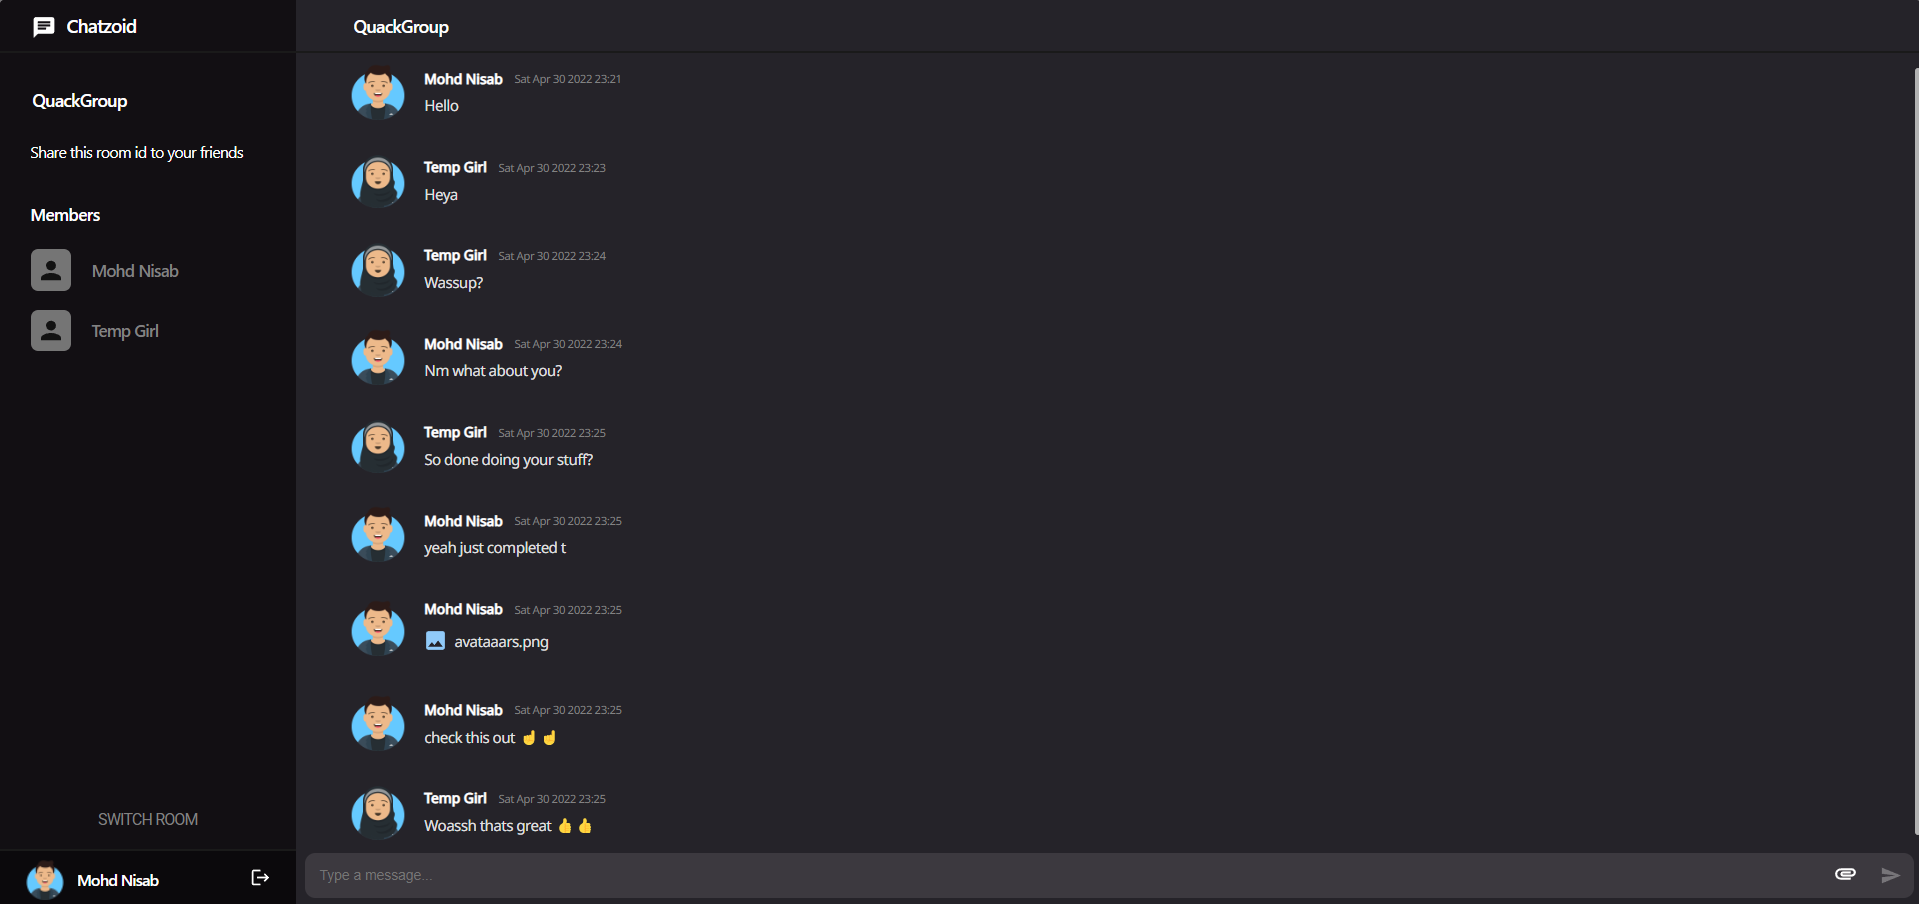
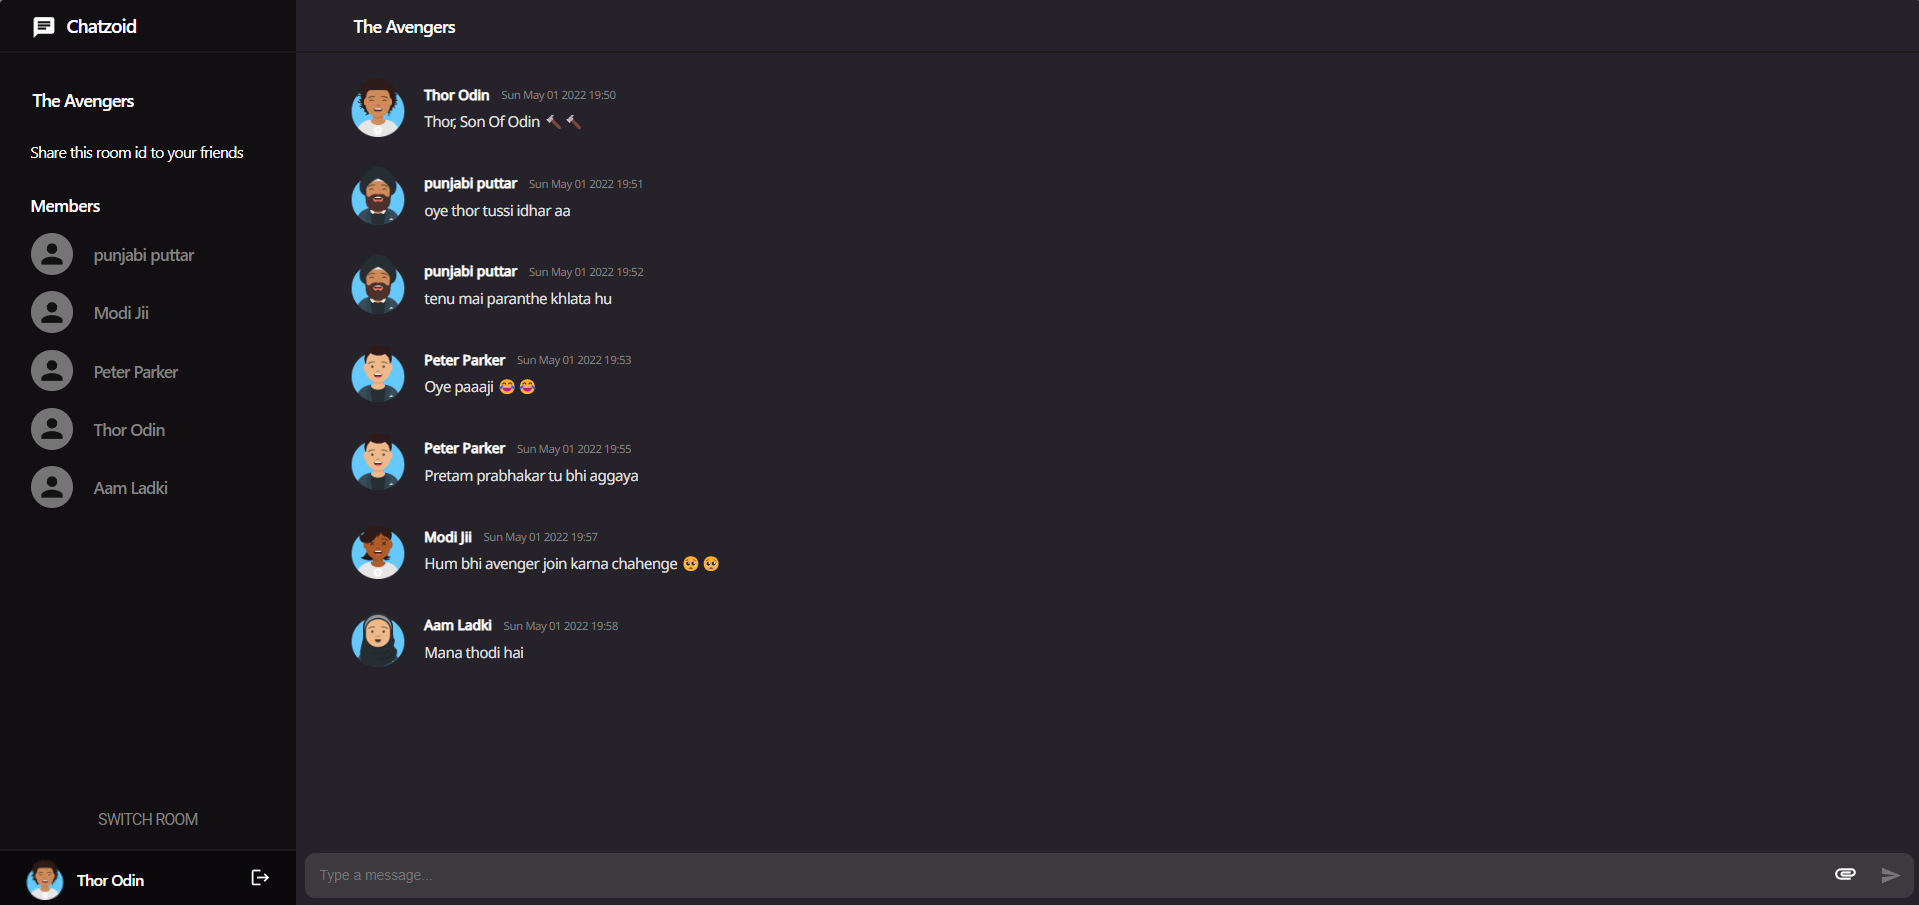
commit small tweaks

diff --git a/src/Login.js b/src/Login.js
@@ -123,10 +123,11 @@ export const Login = (props) => {
 
         <div className='login' style={loginstyle}>
             <Toaster />
-            <ChatIcon color="primary" sx={{ fontSize: 120 }} ></ChatIcon>
+            <ChatIcon color="disabled" sx={{ fontSize: 140 }} ></ChatIcon>
             <h2 style={{ color: 'white', fontWeight: '400' }}>Chatzoid - Sign In</h2>
             {/* <p style={{ fontSize: '16px', width: '295px', marginTop: '9px', color: 'white' }}>we are so exicted to see you again</p> */}
             <TextField
+                autoFocus
                 id="standard-password-input"
                 label="Email"
                 type="email"
@@ -148,11 +149,11 @@ export const Login = (props) => {
                 style={{ width: '92%', marginTop: '19px' }}
             />
 
-            <Button variant="contained" sx={{ marginTop: '21px', width: '125px', backgroundColor: '#5090D3' }} onClick={senduserdetails} size="large">
+            <Button variant="contained" sx={{ marginTop: '21px', width: '115px', backgroundColor: '#5090D3' }} onClick={senduserdetails} size="large">
                 <p style={{ width: '190px', color: 'white', fontWeight: '500', marginLeft: '3px', marginBottom: '-3px' }}>Sign In</p>
             </Button>
-            <Button variant="text" sx={{ marginTop: '16px', width: '155px', position: 'absolute', top: '0', right: '0' }} onClick={handleClickOpen} size="large">
-                <p style={{ width: '190px', color: 'white', fontWeight: '500', marginLeft: '3px', marginBottom: '-3px' }}>Sign Up</p>
+            <Button variant="text" sx={{ marginTop: '16px', width: '105px', position: 'absolute', top: '0', right: '9px' }} onClick={handleClickOpen} size="large">
+                <p style={{ width: '190px', color: '#5090D3', fontWeight: '600', marginLeft: '3px', marginBottom: '-3px' }}>Sign Up</p>
             </Button>
             <Dialog open={open} onClose={handleClose}>
                 <DialogTitle style={{ display: 'flex', flexDirection: 'row', alignItems: 'center', justifyContent: 'center' }}> Signup</DialogTitle>
@@ -165,41 +166,41 @@ export const Login = (props) => {
                         </Fab>
                         <Dialog maxWidth="md" open={open1} onClose={handleClose1}>
                             <DialogTitle style={{ margin: 'auto' }}>Select Avatar</DialogTitle>
-                            <DialogContent style={{ display: 'flex', flexDirection: 'row', alignItems: 'center', justifyContent: 'center',flexWrap:'wrap' }}>
+                            <DialogContent style={{ display: 'flex', flexDirection: 'row', alignItems: 'center', justifyContent: 'center', flexWrap: 'wrap' }}>
                                 <Avatar
                                     src="https://firebasestorage.googleapis.com/v0/b/chat-app-f81cf.appspot.com/o/avatars%2Favataaars%20(5).png?alt=media&token=ac625817-f05e-4e16-9751-00d972bf7eb6"
                                     style={{ width: "105px", height: "105px", marginTop: "2px", marginRight: '9px', cursor: "pointer" }}
-                                    onClick={() => { setPhoto('https://firebasestorage.googleapis.com/v0/b/chat-app-f81cf.appspot.com/o/avatars%2Favataaars%20(5).png?alt=media&token=ac625817-f05e-4e16-9751-00d972bf7eb6');handleClose1(); }}
+                                    onClick={() => { setPhoto('https://firebasestorage.googleapis.com/v0/b/chat-app-f81cf.appspot.com/o/avatars%2Favataaars%20(5).png?alt=media&token=ac625817-f05e-4e16-9751-00d972bf7eb6'); handleClose1(); }}
                                 />
                                 <Avatar
                                     src="https://firebasestorage.googleapis.com/v0/b/chat-app-f81cf.appspot.com/o/avatars%2Favataaars%20(4).png?alt=media&token=9cafcace-1e62-4961-992b-a5d22e85a627"
                                     style={{ width: "105px", height: "105px", marginTop: "2px", marginRight: '9px', cursor: "pointer" }}
-                                    onClick={() => { setPhoto('https://firebasestorage.googleapis.com/v0/b/chat-app-f81cf.appspot.com/o/avatars%2Favataaars%20(4).png?alt=media&token=9cafcace-1e62-4961-992b-a5d22e85a627');handleClose1();  }}
+                                    onClick={() => { setPhoto('https://firebasestorage.googleapis.com/v0/b/chat-app-f81cf.appspot.com/o/avatars%2Favataaars%20(4).png?alt=media&token=9cafcace-1e62-4961-992b-a5d22e85a627'); handleClose1(); }}
                                 />
                                 <Avatar
                                     src="https://firebasestorage.googleapis.com/v0/b/chat-app-f81cf.appspot.com/o/avatars%2Favataaars%20(6).png?alt=media&token=ee647bd7-b54e-4365-ad93-ffbc1d4b4fe2"
                                     style={{ width: "105px", height: "105px", marginTop: "2px", marginRight: '9px', cursor: "pointer" }}
-                                    onClick={() => { setPhoto('https://firebasestorage.googleapis.com/v0/b/chat-app-f81cf.appspot.com/o/avatars%2Favataaars%20(6).png?alt=media&token=ee647bd7-b54e-4365-ad93-ffbc1d4b4fe2');handleClose1();  }}
+                                    onClick={() => { setPhoto('https://firebasestorage.googleapis.com/v0/b/chat-app-f81cf.appspot.com/o/avatars%2Favataaars%20(6).png?alt=media&token=ee647bd7-b54e-4365-ad93-ffbc1d4b4fe2'); handleClose1(); }}
                                 />
                                 <Avatar
                                     src="https://firebasestorage.googleapis.com/v0/b/chat-app-f81cf.appspot.com/o/avatars%2Favataaars%20(7).png?alt=media&token=789bdada-11bf-4fac-9eb4-c8a41971ac58"
                                     style={{ width: "105px", height: "105px", marginTop: "2px", marginRight: '9px', cursor: "pointer" }}
-                                    onClick={() => { setPhoto('https://firebasestorage.googleapis.com/v0/b/chat-app-f81cf.appspot.com/o/avatars%2Favataaars%20(7).png?alt=media&token=789bdada-11bf-4fac-9eb4-c8a41971ac58');handleClose1();  }}
+                                    onClick={() => { setPhoto('https://firebasestorage.googleapis.com/v0/b/chat-app-f81cf.appspot.com/o/avatars%2Favataaars%20(7).png?alt=media&token=789bdada-11bf-4fac-9eb4-c8a41971ac58'); handleClose1(); }}
                                 />
                                 <Avatar
                                     src="https://firebasestorage.googleapis.com/v0/b/chat-app-f81cf.appspot.com/o/avatars%2Favataaars%20(8).png?alt=media&token=7fa37bcb-ec1a-4891-8815-6a656605cbfb"
                                     style={{ width: "105px", height: "105px", marginTop: "2px", marginRight: '9px', cursor: "pointer" }}
-                                    onClick={() => { setPhoto('https://firebasestorage.googleapis.com/v0/b/chat-app-f81cf.appspot.com/o/avatars%2Favataaars%20(8).png?alt=media&token=7fa37bcb-ec1a-4891-8815-6a656605cbfb');handleClose1();  }}
+                                    onClick={() => { setPhoto('https://firebasestorage.googleapis.com/v0/b/chat-app-f81cf.appspot.com/o/avatars%2Favataaars%20(8).png?alt=media&token=7fa37bcb-ec1a-4891-8815-6a656605cbfb'); handleClose1(); }}
                                 />
                                 <Avatar
                                     src="https://firebasestorage.googleapis.com/v0/b/chat-app-f81cf.appspot.com/o/avatars%2Favataaars.png?alt=media&token=bd6ddf4b-4d07-4646-a582-d774a62723e4"
                                     style={{ width: "105px", height: "105px", marginTop: "2px", marginRight: '9px', cursor: "pointer" }}
-                                    onClick={() => { setPhoto('https://firebasestorage.googleapis.com/v0/b/chat-app-f81cf.appspot.com/o/avatars%2Favataaars.png?alt=media&token=bd6ddf4b-4d07-4646-a582-d774a62723e4');handleClose1();  }}
+                                    onClick={() => { setPhoto('https://firebasestorage.googleapis.com/v0/b/chat-app-f81cf.appspot.com/o/avatars%2Favataaars.png?alt=media&token=bd6ddf4b-4d07-4646-a582-d774a62723e4'); handleClose1(); }}
                                 />
                                 <Avatar
                                     src="https://firebasestorage.googleapis.com/v0/b/chat-app-f81cf.appspot.com/o/avatars%2Favataaars%20(9).png?alt=media&token=f52a07a5-39a7-4ce6-8259-3a4159bc5229"
                                     style={{ width: "105px", height: "105px", marginTop: "2px", marginRight: '9px', cursor: "pointer" }}
-                                    onClick={() => { setPhoto('https://firebasestorage.googleapis.com/v0/b/chat-app-f81cf.appspot.com/o/avatars%2Favataaars%20(9).png?alt=media&token=f52a07a5-39a7-4ce6-8259-3a4159bc5229');handleClose1(); }}
+                                    onClick={() => { setPhoto('https://firebasestorage.googleapis.com/v0/b/chat-app-f81cf.appspot.com/o/avatars%2Favataaars%20(9).png?alt=media&token=f52a07a5-39a7-4ce6-8259-3a4159bc5229'); handleClose1(); }}
                                 />
                             </DialogContent>
                             <DialogActions>

diff --git a/src/Leftbar.js b/src/Leftbar.js
@@ -72,15 +72,15 @@ export const Leftbar = (props) => {
         </div>
 
 
-        <div className="sepater" style={{ marginTop: '29px', overflowY: 'scroll', height: '50vh' }}>
-          <div className="roomidandstuff" style={{ display: 'flex', flexDirection: 'row', alignItems: 'center', justifyContent: 'space-between', padding: '0 29px', marginTop: '9px', marginBottom: '23.5px' }}>
-            <h5 style={{ color: 'white', font: 'Noto Sans', fontWeight: '500', fontStyle: 'normal', fontSize: '16.5px', letterSpacing: '-0.035em' }}>Members</h5>
+        <h5 style={{ color: 'white', font: 'Noto Sans', fontWeight: '500', fontStyle: 'normal', fontSize: '16.5px', letterSpacing: '-0.035em', marginTop: '29px', marginLeft: '29px' }}>Members</h5>
+        <div className="sepater" style={{ overflowY: 'scroll', height: '58vh' }}>
+          <div className="roomidandstuff" style={{ display: 'flex', flexDirection: 'row', padding: '0 29px', marginTop: '-6.5px', marginBottom: '23.5px' }}>
           </div>
           {
             Array.from(new Set(user)).map((item) => {
               return (
-                <div className="people" style={{ display: 'flex', flexDirection: 'row', alignItems: 'center', marginTop: '9px', marginBottom: '18px' }}>
-                  <Avatar style={{ width: '38px', height: '40px', borderRadius: '7px', marginLeft: '29.99px' }} alt="" />
+                <div className="people" style={{ display: 'flex', flexDirection: 'row', alignItems: 'center', marginTop: '16px', marginBottom: '12px' }}>
+                  <Avatar style={{ width: '40px', height: '40px', borderRadius: '100%', marginLeft: '29.99px' }} alt="" />
                   <p style={{ color: '#828282', marginLeft: '19.9px', font: 'Noto Sans', fontWeight: '500', fontStyle: 'normal', fontSize: '16px', letterSpacing: '-0.035em' }}>{item}</p>
                 </div>)
             })

diff --git a/src/Room.js b/src/Room.js
@@ -17,7 +17,7 @@ export const Room = (props) => {
         <Avatar sx={{width:'115px',height:'115px'}} alt={props.name} src={props.photo} />
         <h2 style={{margin:'auto',marginTop:'20px',color:'white',fontFamily:'sans-serif',marginBottom:'10px',fontWeight:'400'}}>{props.name}</h2>
         </div>
-        <Input  placeholder="Enter a room Id" sx={{width:'280px',color:'white'}} value={roomid}
+        <Input autoFocus  placeholder="Enter a room Id" sx={{width:'280px',color:'white'}} value={roomid}
           onChange={(e)=>{setRoomid(e.target.value)}} />
           <div className="btns">
             
